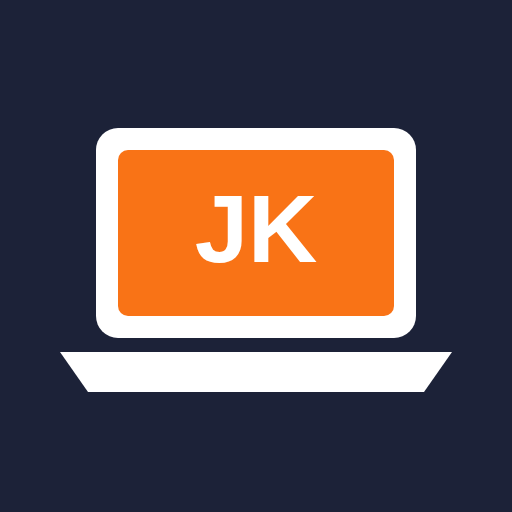
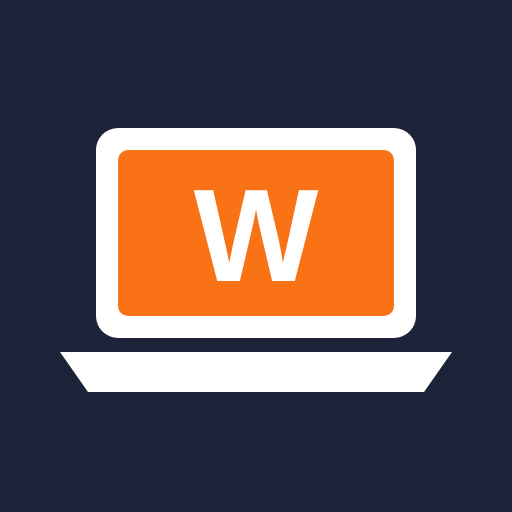
🎨 Ícone do portal com W (Prof. Welington) no lugar de JK
Claude-Session: https://claude.ai/code/session_01QQHyr69pa2zPoBBg1baFVy

Changed region(s): [[0.375, 0.3438, 0.625, 0.5625]]

diff --git a/index.html b/index.html
@@ -5,9 +5,9 @@
   <meta name="viewport" content="width=device-width, initial-scale=1">
   <title>Portal da Informática — Professor Welington Laignier · Escola JK</title>
   <meta name="description" content="Portal da Informática: apostilas digitais interativas da EMEF Juscelino Kubitschek, Curionópolis/PA — Professor Welington Laignier.">
-  <link rel="icon" type="image/png" href="img/favicon-32.png">
-  <link rel="apple-touch-icon" href="img/icone-180.png">
-  <link rel="manifest" href="manifest.webmanifest">
+  <link rel="icon" type="image/png" href="img/favicon-32.png?v=w">
+  <link rel="apple-touch-icon" href="img/icone-180.png?v=w">
+  <link rel="manifest" href="manifest.webmanifest?v=w">
   <meta name="theme-color" content="#1c2238">
   <meta name="apple-mobile-web-app-capable" content="yes">
   <meta name="mobile-web-app-capable" content="yes">
